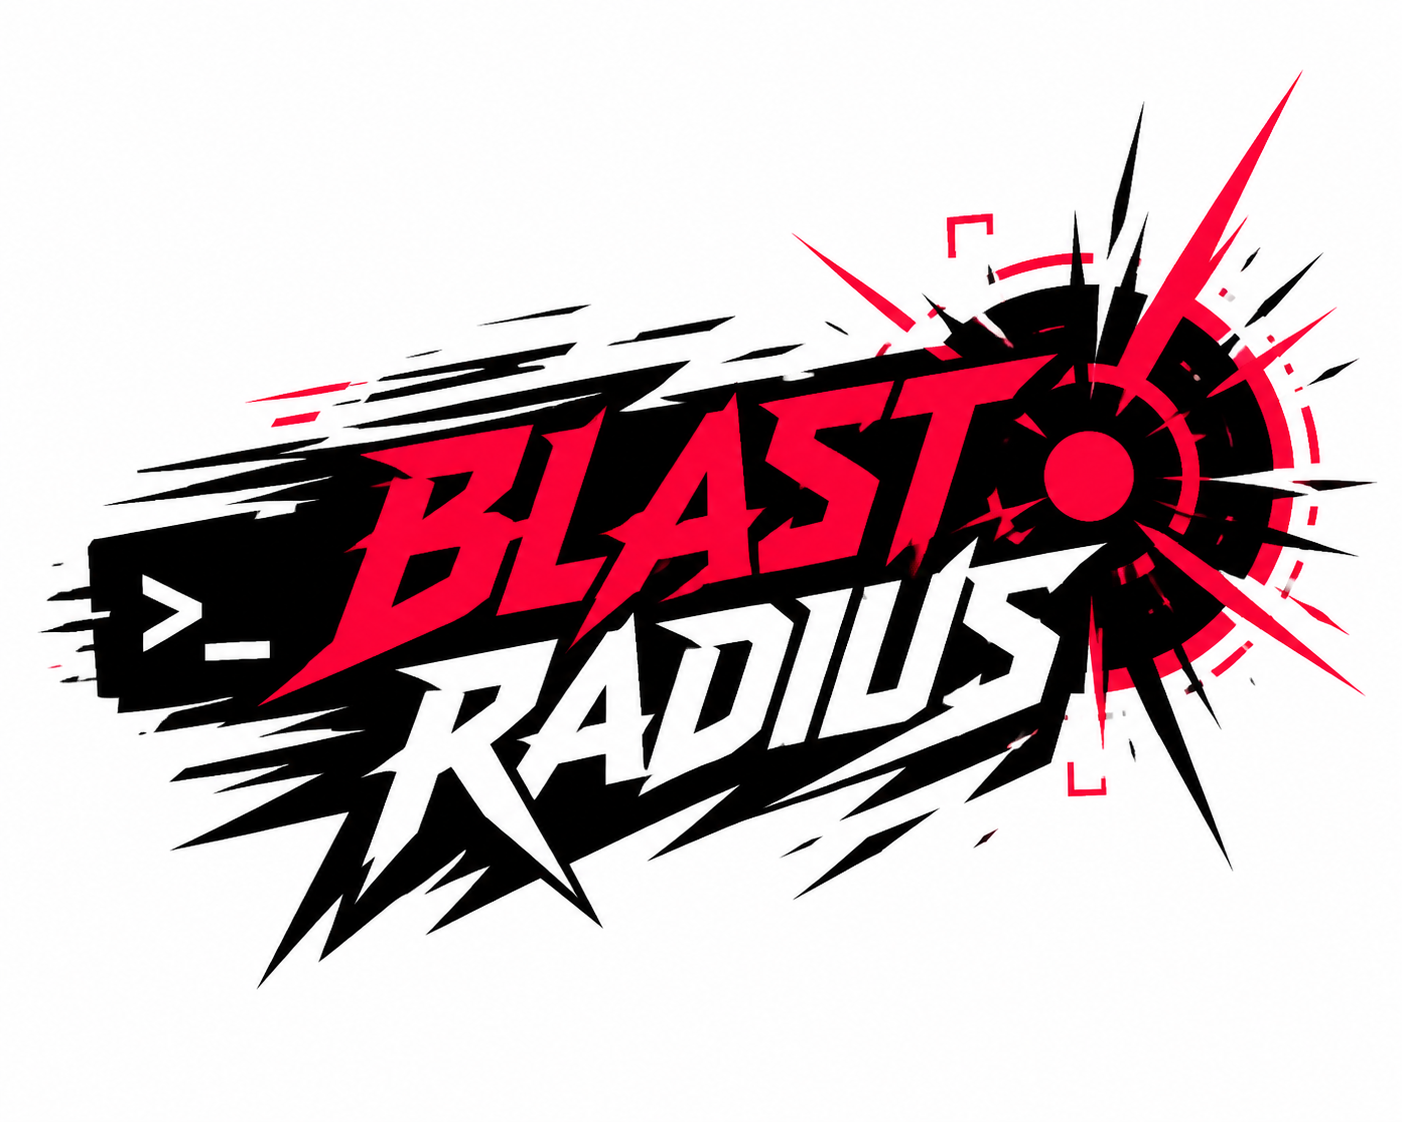
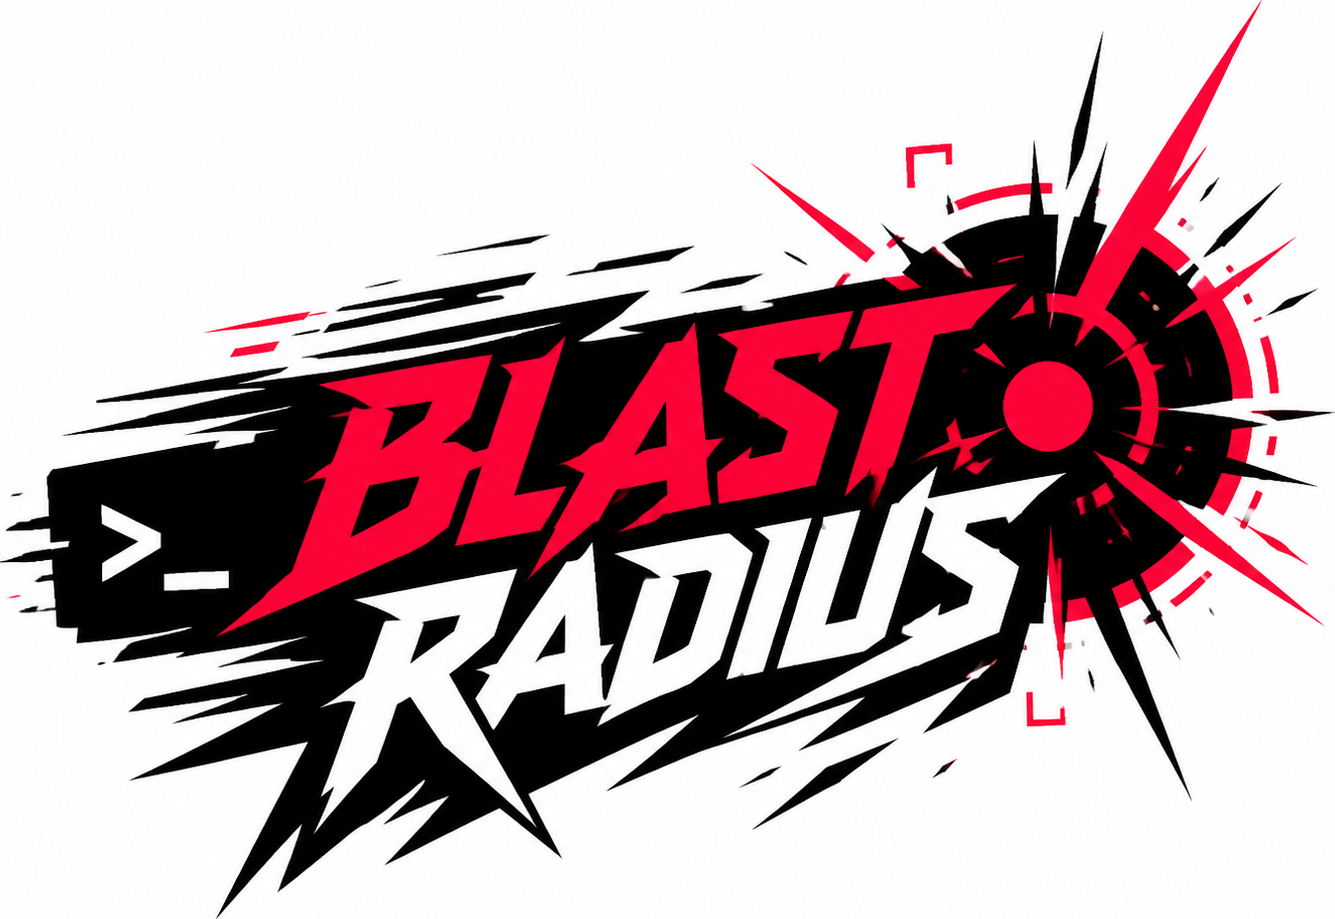
update

diff --git a/README.md b/README.md
@@ -1,15 +1,15 @@
 <p align="center">
-  <img src="assets/blast-radius-aggressive.png" alt="blast-radius logo" width="520">
+  <img src="assets/blast-radius-aggressive-transparent.png" alt="blast-radius logo" width="375">
 </p>
 
 # blast-radius
 
-**Before you change a file, find out what else might break.**
+**When you change a file, find out what else might break.**
 
 `blast-radius` is a fast CLI that traces every file that depends — directly or
 transitively — on the code you're about to touch, and gives you a one-glance
 risk verdict. Point it at a file and it answers the question every code review
-asks: *"how far does this change reach?"*
+asks: _"how far does this change reach?"_
 
 ```
    MODERATE   ██████████░░░░░░░░░░  6 impacted files · 2 packages
@@ -113,22 +113,22 @@ impact propagates.
 
 ## Commands
 
-| Command | What it does |
-| --- | --- |
-| `file <path>` | Everything that depends on this file. |
+| Command                | What it does                                        |
+| ---------------------- | --------------------------------------------------- |
+| `file <path>`          | Everything that depends on this file.               |
 | `export <path> <name>` | Everything that depends on a specific named export. |
-| `files <path>...` | Blast radius for each file plus a combined total. |
+| `files <path>...`      | Blast radius for each file plus a combined total.   |
 
 Global flags:
 
-| Flag | Purpose |
-| --- | --- |
-| `--repo-root <dir>` | Repo to analyze (default: current directory). |
-| `--format <tree\|json\|mermaid\|dot>` | Output format (default: `tree`). |
-| `--output <file>` | Write output to a file instead of stdout. |
-| `--verbose`, `-v` | Show the full cascade tree. |
-| `--fail-threshold <n>` | Exit code 2 when more than `n` files are affected. |
-| `--fail-on-risk <tier>` | Exit code 2 when the verdict is at or above `tier`. |
+| Flag                                  | Purpose                                             |
+| ------------------------------------- | --------------------------------------------------- |
+| `--repo-root <dir>`                   | Repo to analyze (default: current directory).       |
+| `--format <tree\|json\|mermaid\|dot>` | Output format (default: `tree`).                    |
+| `--output <file>`                     | Write output to a file instead of stdout.           |
+| `--verbose`, `-v`                     | Show the full cascade tree.                         |
+| `--fail-threshold <n>`                | Exit code 2 when more than `n` files are affected.  |
+| `--fail-on-risk <tier>`               | Exit code 2 when the verdict is at or above `tier`. |
 
 ### Output formats
 
@@ -171,8 +171,8 @@ unresolved-import confidence signal:
 {
   // comments and trailing commas are allowed (parsed as JSONC, like tsconfig)
   "unresolved": {
-    "ignore": ["styled-system/css", ".velite", "/+types/"]
-  }
+    "ignore": ["styled-system/css", ".velite", "/+types/"],
+  },
 }
 ```
 
@@ -184,16 +184,16 @@ automatically. See `examples/chakra-ui/.blast-radius.json`.
 
 The `examples/` directory has runnable fixtures for each supported language:
 
-| Fixture | Exercises |
-| --- | --- |
-| `monorepo-demo` | Aliases, barrels, CommonJS, transitive React usage |
-| `vite-react-ts` | A real Vite React + TypeScript template |
-| `chakra-ui` † | Chakra UI snapshot for large-repo stress testing |
+| Fixture                     | Exercises                                                    |
+| --------------------------- | ------------------------------------------------------------ |
+| `monorepo-demo`             | Aliases, barrels, CommonJS, transitive React usage           |
+| `vite-react-ts`             | A real Vite React + TypeScript template                      |
+| `chakra-ui` †               | Chakra UI snapshot for large-repo stress testing             |
 | `python-demo` / `fastapi` † | Python package, relative, and `__init__.py` reexport imports |
-| `rust-demo` | `mod`, `pub use`, `crate::` / `self::` imports |
-| `component-demo` | Mixed Vue/Svelte component imports |
-| `ruby-demo` | `require_relative`, classes, modules, methods |
-| `java-demo` | Packages, imports, public classes |
+| `rust-demo`                 | `mod`, `pub use`, `crate::` / `self::` imports               |
+| `component-demo`            | Mixed Vue/Svelte component imports                           |
+| `ruby-demo`                 | `require_relative`, classes, modules, methods                |
+| `java-demo`                 | Packages, imports, public classes                            |
 
 † `chakra-ui` and `fastapi` are large real-world snapshots that aren't committed
 to the repo. Fetch them on demand (pinned to a known upstream commit) before